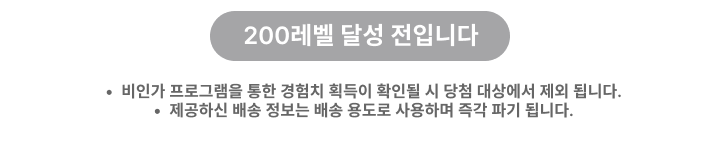
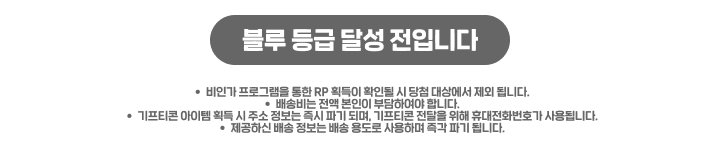
보상 관련 추가

Changed region(s): [[0.1222, 0.56, 0.8556, 0.9067], [0.275, 0.0533, 0.7333, 0.4533]]

diff --git a/Server/lib/Web/lib/kkutu/body.js b/Server/lib/Web/lib/kkutu/body.js
@@ -991,16 +991,16 @@ function updateMe(){
 	$(".my-level").html("Lv. " + lv);
 
 	//200레벨이벤트
-	var startDate = new Date('2024-03-04');
-    var endDate = new Date('2024-03-18');
+	var startDate = new Date('2024-03-05');
+    var endDate = new Date('2024-03-19');
     var today = new Date();
 
     if (today >= startDate && today <= endDate) {
 	$("#event-content").show();
 	$("#pre-content").hide();
     }
-	$("#userLevel").html("Lv. " + lv);
-	if(lv >= 200){
+	$("#userLevel").html(L[rank] + " (" + my.data.rankPoint + "RP)");
+	if(my.data.rankPoint >= 1500){
 		$("#lockedItem").click(function(){
 			window.open('https://docs.google.com/forms/d/e/1FAIpQLSc5uzMe6xxXrBSD_NprdUUP_F_0o5YJU8WNYwsG4D44LZaPcA/viewform?usp=sf_link', '_blank');
 	  });
